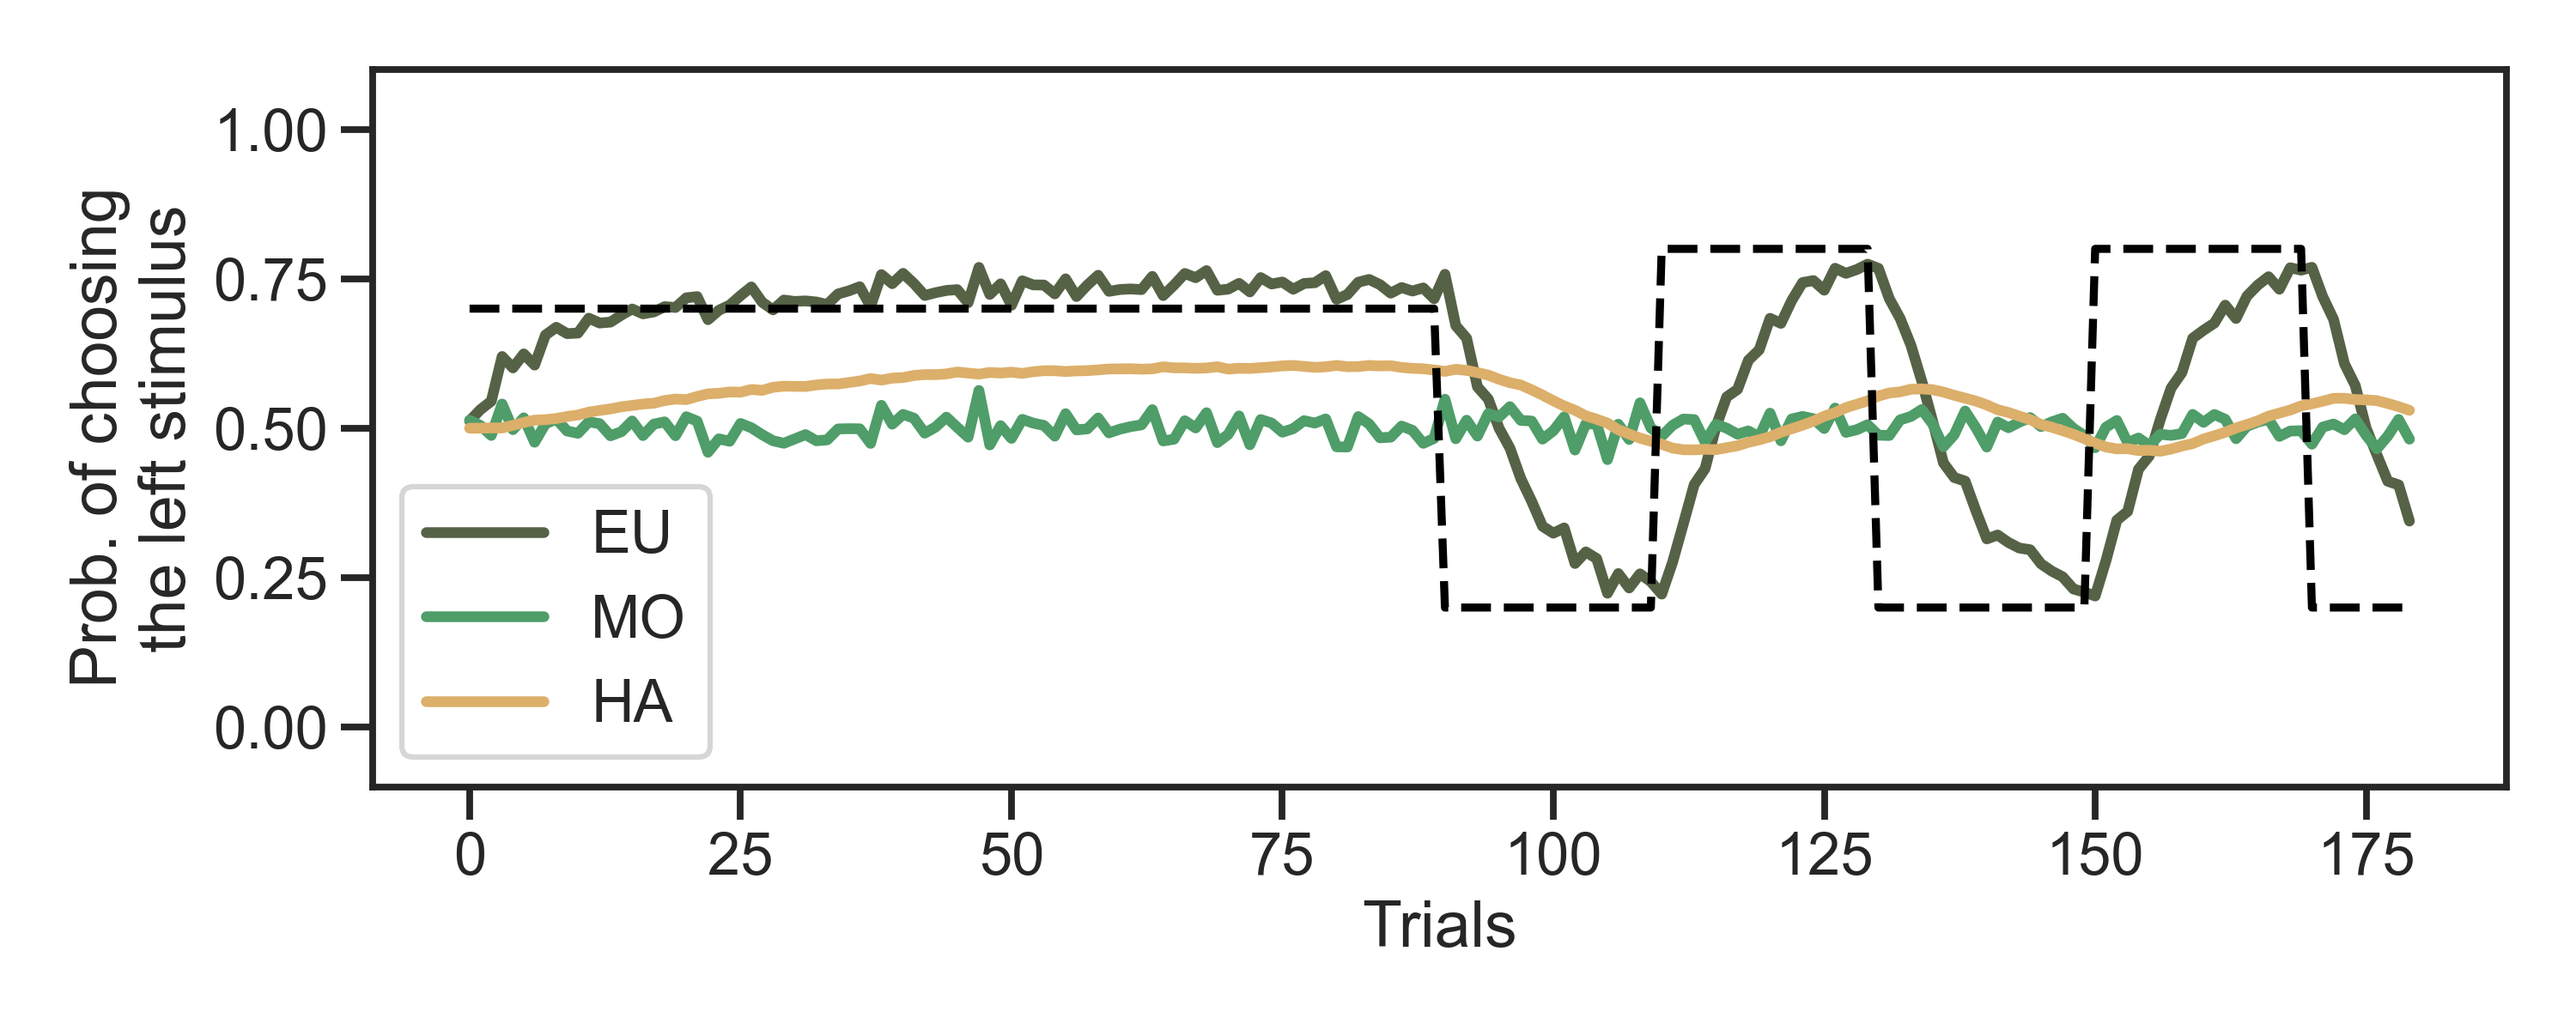
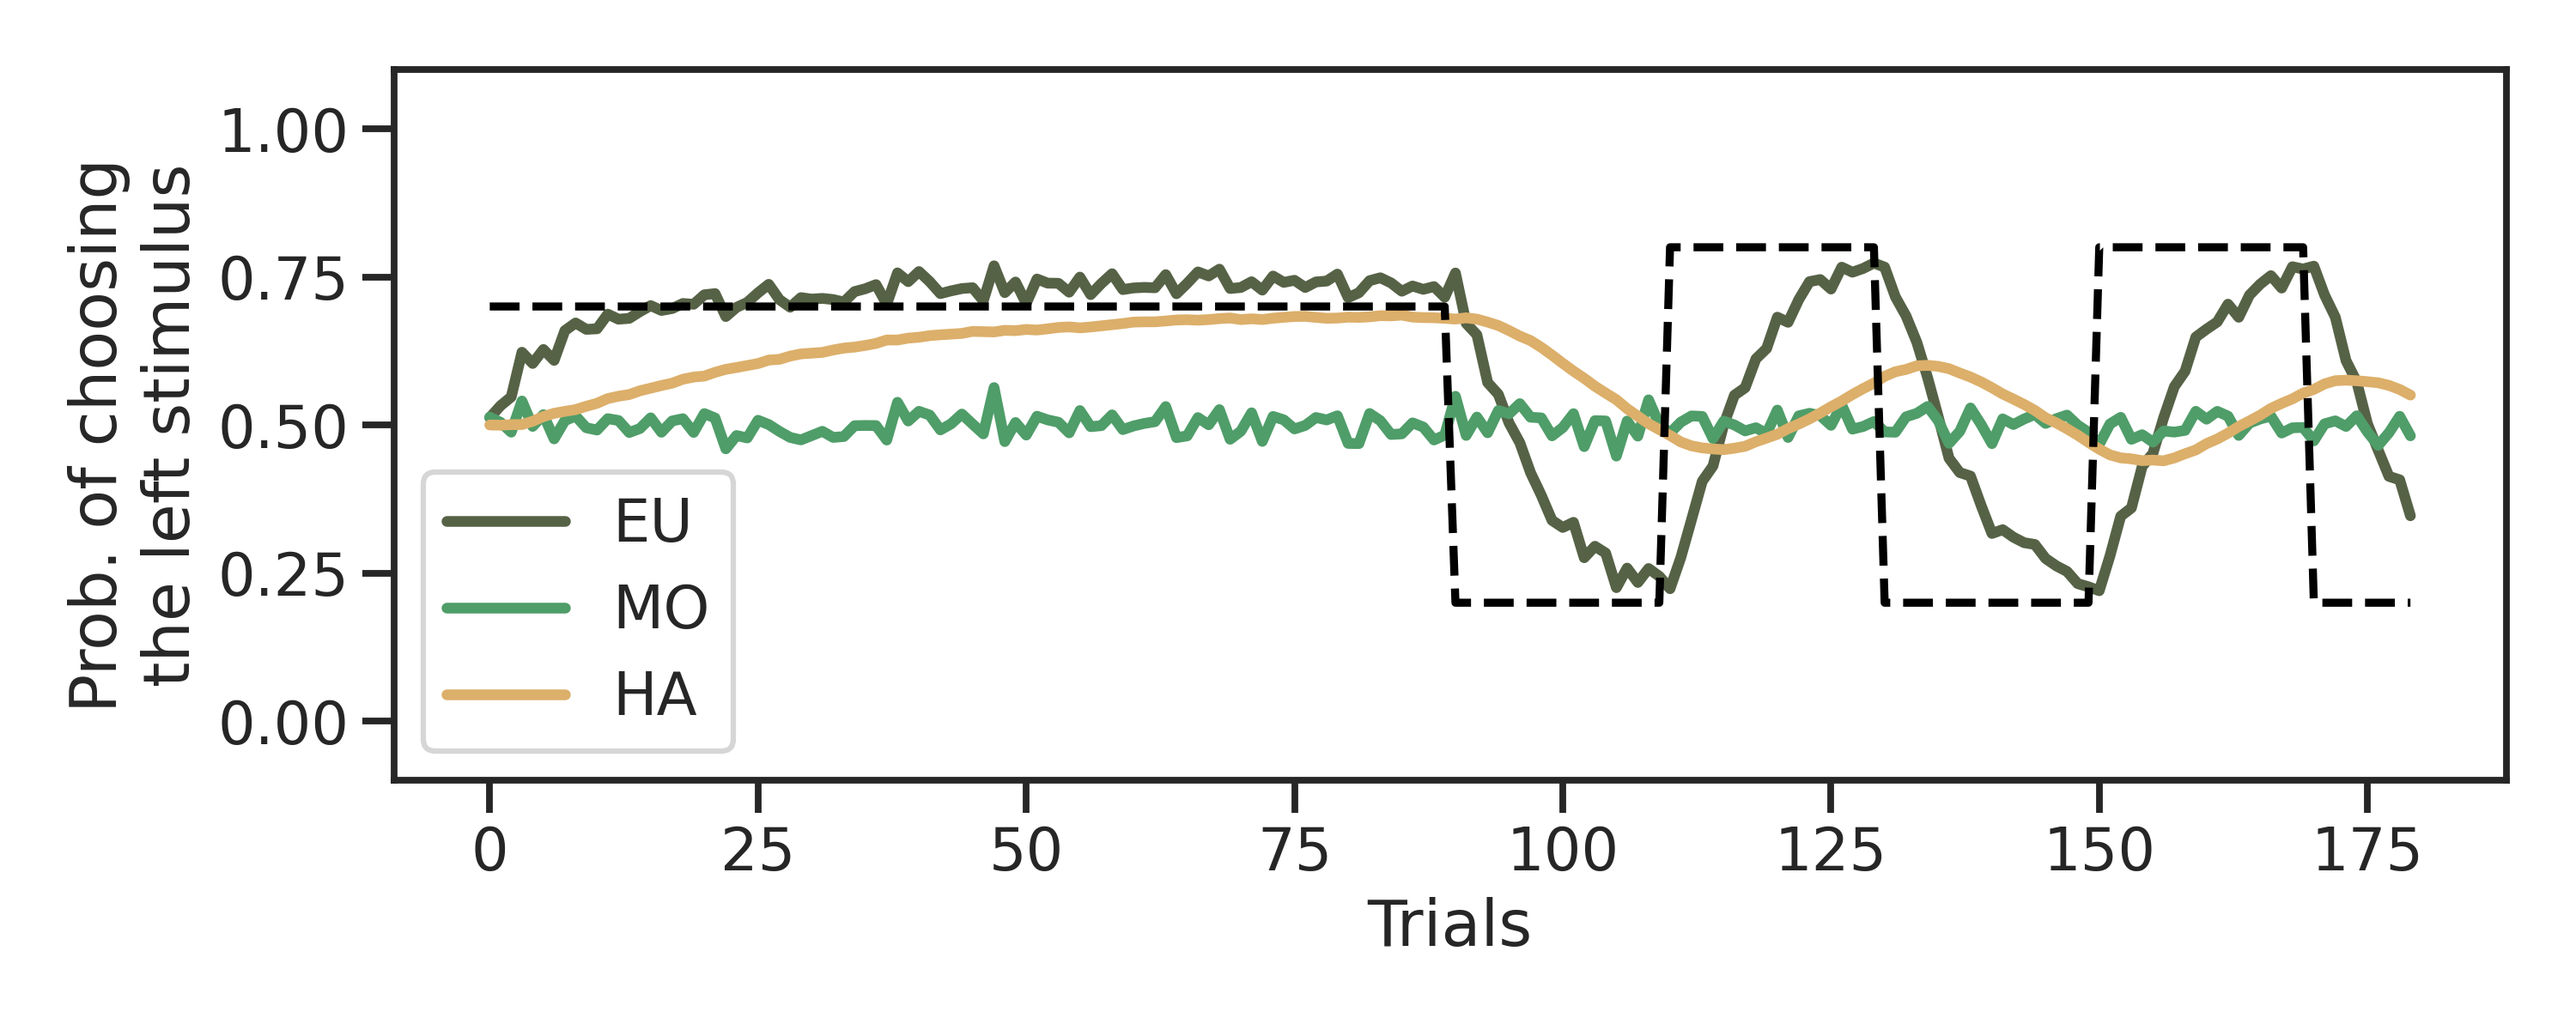
update figures

diff --git a/m2_simulate.py b/m2_simulate.py
@@ -127,17 +127,15 @@ def sim_subj(mode, seed, n_samples=3):
        
     # decide what to collect
     subj   = model(MixPol)
-    if mode == 'HC':
-        ls = [0.678336, -0.976054, 0.297795]
-    elif mode == 'PAT':
-        ls = [0.007705, 0.315989, -0.323734]
+    
     n_params = 18
     fname    = f'{path}/fits/{args.data_set}/params-{args.data_set}-{args.agent_name}-map-ind.csv'      
-    params   = pd.read_csv(fname, index_col=0).iloc[0, 0:n_params].values
-    params[3:6]   = ls
-    params[7:10]  = ls
-    params[11:14] = ls
-    params[15:18] = ls 
+    raw_params   = pd.read_csv(fname, index_col=0).iloc[0, 0:n_params].values
+    params = np.hstack([raw_params[:2], list((raw_params[2:]).reshape([4, 4]).mean(0))*4])
+    if mode == 'HC':
+        params = np.hstack([params[:2], (list(params[2:3])+[0.678336, -0.976054, 0.297795])*4])
+    elif mode == 'PAT':
+        params = np.hstack([params[:2], (list(params[2:3])+[0.007705, 0.315989, -0.323734])*4])
         
     rng    = np.random.RandomState(seed)
     
@@ -184,3 +182,5 @@ if __name__ == '__main__':
     # STEP 3: SIM SUBJECT
     sim_subj_paral(pool, 'HC', args)
     sim_subj_paral(pool, 'PAT', args)
+    sim_subj_paral(pool, 'AVG', args)
+   

diff --git a/m3_visualize.py b/m3_visualize.py
@@ -284,7 +284,7 @@ def PrefdiffxGroup(data):
 
 def Stategy_Ada():
 
-    fname = f'{path}/simulations/exp1data/MOS/simsubj-exp1data-sta_first-PAT.csv'
+    fname = f'{path}/simulations/exp1data/MOS/simsubj-exp1data-sta_first-AVG.csv'
     data = pd.read_csv(fname)
 
     data = data.groupby(by=['trials'])[['l1_effect', 'l2_effect', 'l3_effect']].mean()
@@ -343,11 +343,11 @@ if __name__ == '__main__':
     ## parameters analyses
     pivot_table = build_pivot_table('map', agent='MOS', min_q=.01, max_q=.99)
 
-    PrefxGroup(pivot_table)
-    PrefxSyndrome(pivot_table)
-    PrefxEnv(pivot_table)
-    LRxEnv(pivot_table)
-    LRxGroup(pivot_table)
-    PrefdiffxGroup(pivot_table)
+    # PrefxGroup(pivot_table)
+    # PrefxSyndrome(pivot_table)
+    # PrefxEnv(pivot_table)
+    # LRxEnv(pivot_table)
+    # LRxGroup(pivot_table)
+    # PrefdiffxGroup(pivot_table)
     Stategy_Ada()
     Pi_Ada()
